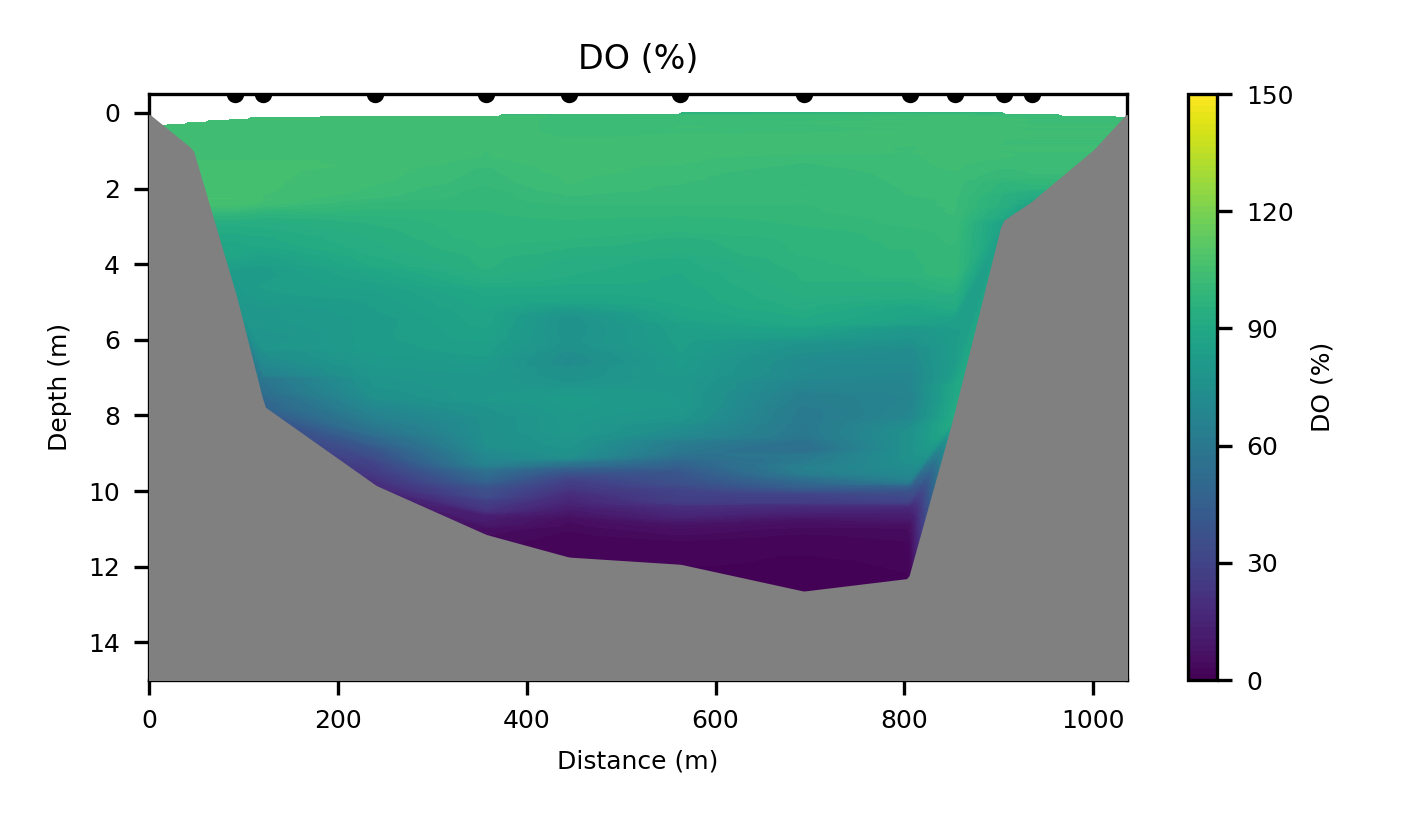
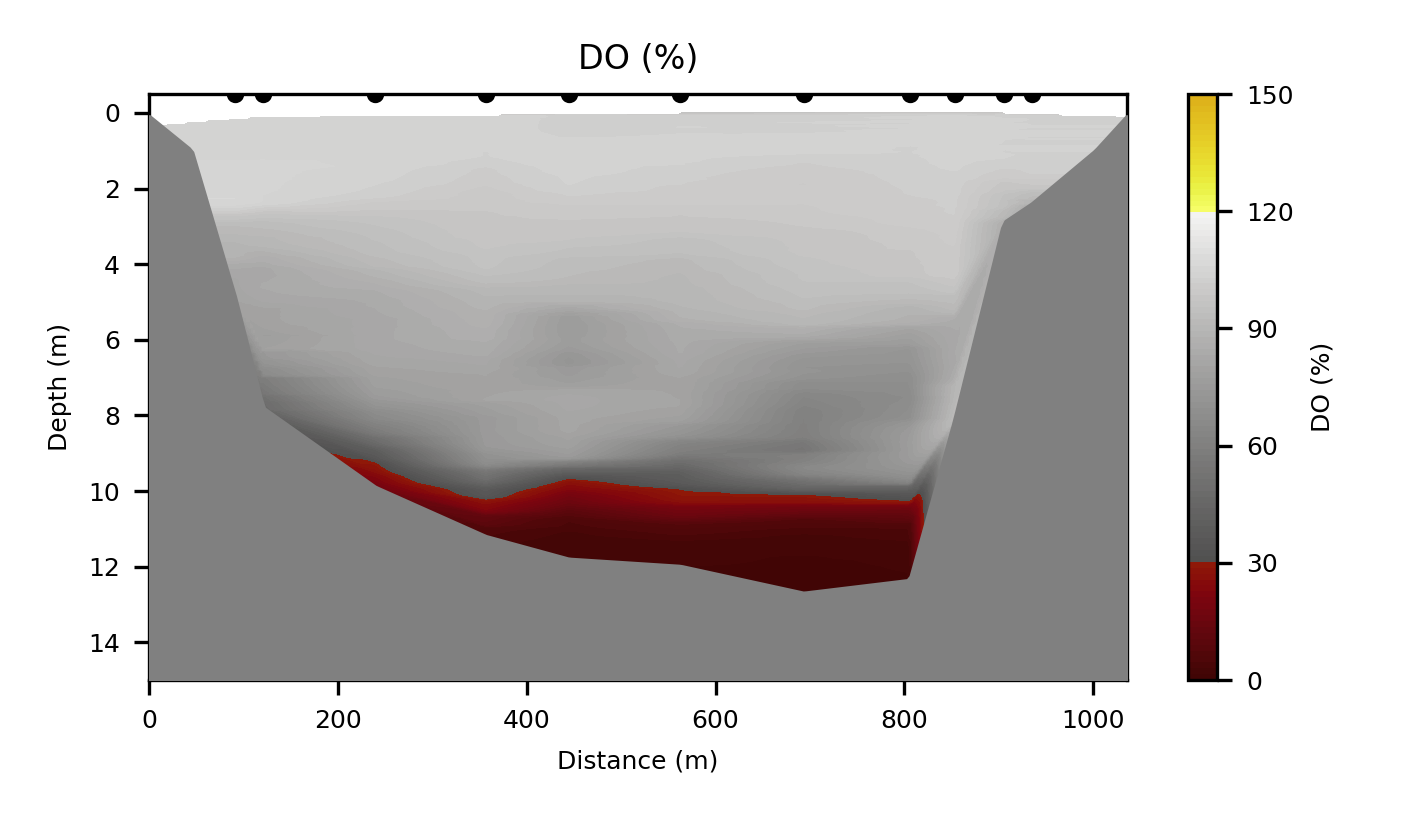
updated plotting

Changed region(s): [[0.1243, 0.1212, 0.8079, 0.7273], [0.839, 0.1212, 0.8701, 0.8182]]

diff --git a/Code/plotting/plot_profiler_contours_mar_2025.py b/Code/plotting/plot_profiler_contours_mar_2025.py
@@ -11,20 +11,20 @@ import cmocean
 
 # Configuration for profiler variable display names and colorbar limits
 variable_config = {
-    "Temp. [degC]": {"label": "Temperature (°C)", "vmin": 18, "vmax": 26},
-    "Sal.": {"label": "Salinity (PSU)", "vmin": 0.4, "vmax": 0.6},
-    "Cond. [mS/cm]": {"label": "Conductivity (mS/cm)", "vmin": 0, "vmax": 60},
-    "EC25 [�S/cm]": {"label": "EC25 (µS/cm)", "vmin": 0, "vmax": 60000},
-    "Density [kg/m3]": {"label": "Density (kg/m³)", "vmin": 1000, "vmax": 1030},
-    "SigmaT": {"label": "Sigma-T", "vmin": 0, "vmax": 30},
-    "Chl-Flu. [ppb]": {"label": "Chlorophyll Fluorescence (ppb)", "vmin": 0, "vmax": 100},
-    "Chl-a [�g/l]": {"label": "Chlorophyll-a (µg/L)", "vmin": 0, "vmax": 100},
-    "Turb. [FTU]": {"label": "Turbidity (FTU)", "vmin": 0, "vmax": 200},
-    "pH": {"label": "pH", "vmin": 6, "vmax": 9},
-    "ORP [mV]": {"label": "ORP (mV)", "vmin": -500, "vmax": 500},
-    "DO [%]": {"label": "DO (%)", "vmin": 0, "vmax": 150},
-    "DO [mg/l]": {"label": "DO (mg/L)", "vmin": 2, "vmax": 10},
-    "Quant. [�mol/(m2*s)]": {"label": "PAR (µmol/m²/s)", "vmin": 0, "vmax": 2500},
+    "Temp. [degC]": {"label": "Temperature (°C)", "vmin": 18, "vmax": 26, "cmap": "viridis"},
+    "Sal.": {"label": "Salinity (PSU)", "vmin": 0.4, "vmax": 0.6, "cmap": "viridis"},
+    "Cond. [mS/cm]": {"label": "Conductivity (mS/cm)", "vmin": 0, "vmax": 60, "cmap": "viridis"},
+    "EC25 [�S/cm]": {"label": "EC25 (µS/cm)", "vmin": 0, "vmax": 60000, "cmap": "viridis"},
+    "Density [kg/m3]": {"label": "Density (kg/m³)", "vmin": 1000, "vmax": 1030, "cmap": "viridis"},
+    "SigmaT": {"label": "Sigma-T", "vmin": 0, "vmax": 30, "cmap": "viridis"},
+    "Chl-Flu. [ppb]": {"label": "Chlorophyll Fluorescence (ppb)", "vmin": 0, "vmax": 100, "cmap": "viridis"},
+    "Chl-a [�g/l]": {"label": "Chlorophyll-a (µg/L)", "vmin": 0, "vmax": 100, "cmap": "viridis"},
+    "Turb. [FTU]": {"label": "Turbidity (FTU)", "vmin": 0, "vmax": 200, "cmap": "viridis"},
+    "pH": {"label": "pH", "vmin": 6, "vmax": 9, "cmap": "viridis"},
+    "ORP [mV]": {"label": "ORP (mV)", "vmin": -500, "vmax": 500, "cmap": "viridis"},
+    "DO [%]": {"label": "DO (%)", "vmin": 0, "vmax": 150, "cmap": "cmo.oxy"},
+    "DO [mg/l]": {"label": "DO (mg/L)", "vmin": 2, "vmax": 10, "cmap": "cmo.oxy"},
+    "Quant. [�mol/(m2*s)]": {"label": "PAR (µmol/m²/s)", "vmin": 0, "vmax": 2500, "cmap": "viridis"},
 }
 
 # Load index file
@@ -102,7 +102,7 @@ for var, df_plot in profiler_data.items():
 
     config = variable_config.get(var, {"label": var, "vmin": None, "vmax": None})
     print(f"Plotting variable: {var}, vmin: {config['vmin']}, vmax: {config['vmax']}")
-    cmap = "cmo.oxy" if var == "DO [mg/l]" else "viridis"
+    cmap = config.get("cmap", "viridis")
     if config["vmin"] is not None and config["vmax"] is not None:
         levels = np.linspace(config["vmin"], config["vmax"], 100)
         zi_clipped = np.clip(zi, config["vmin"], config["vmax"])
